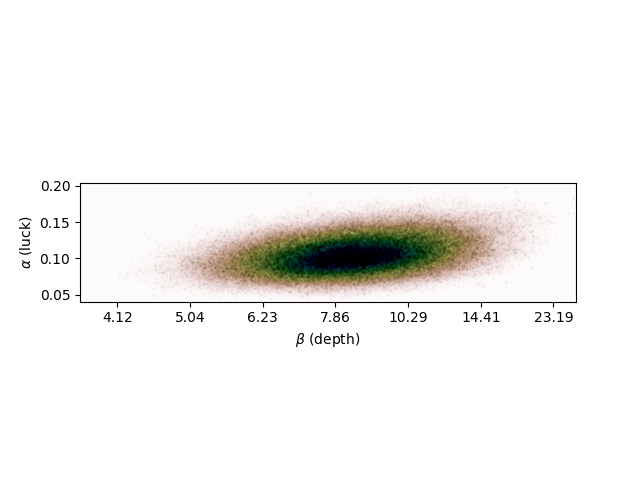
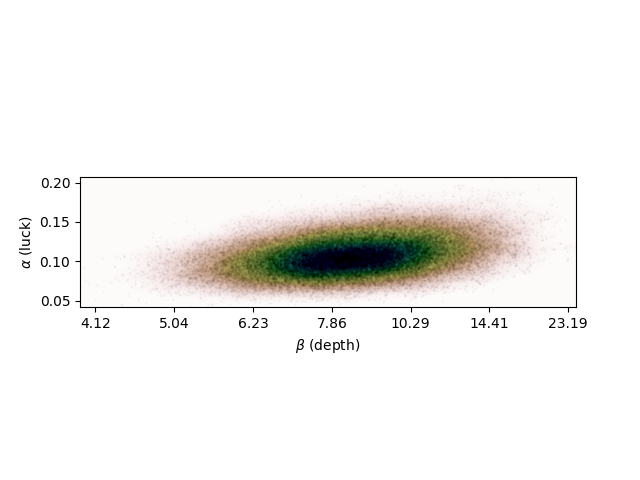
Documentation/example update

diff --git a/example.py b/example.py
@@ -1,14 +1,29 @@
 import ranking
 import matplotlib.pyplot as plt
 
-match_list = ranking.read_match_list_from_gml("data/gml_files/dogs.gml")
-# match_list = ranking.read_match_list_from_match_list("data/match_lists/college_football_D1_2023.txt")
-# match_list = ranking.read_match_list_from_match_list("data/match_lists/tennis.txt")
+# Example 1: dogs (n = 27 dogs that interact m = 1143 times)
+# Load data set
+match_list = ranking.read_match_list("data/gml_files/dogs.gml")
 
-scores = ranking.scores(match_list, model_name="depth_and_luck", force_mode="average")
-
+# Find scores (requires sampling, which can take a while)
+scores = ranking.scores(match_list)
 print(scores)
 
-# ranking.draw_depth_and_luck_posterior(match_list)
+# Get ranks (uses cached samples when possible)
+ranks = ranking.ranks(match_list)
+print(ranks)
 
-# plt.savefig('data/parameter_posteriors/tennis.png')
+# Find probability (and error) of an outcome betwen a pair
+player1 = 'MER'
+player2 = 'STE'
+probability, probability_error = ranking.probability(match_list,player1,player2)
+print(f"Probability {probability:.4f}+/-{probability_error:.4f} that {player1} beats {player2}")
+
+# Infer the depth and luck of the hierarchy 
+params = ranking.depth_and_luck(match_list)
+print(f"Depth: {params['depth']:.3f}, Luck: {params['luck']:.3f}")
+
+# Draw posterior distribution over depth and luck 
+# (compared to the point estimates this is the more informative picture)
+ranking.draw_depth_and_luck_posterior(match_list)
+plt.savefig('data/parameter_posteriors/dogs.png')

diff --git a/README.md b/README.md
@@ -1,42 +1,57 @@
 # pairwise-ranking
 <a href='https://pairwise-ranking.readthedocs.io/en/latest/?badge=latest'> <img src='https://readthedocs.org/projects/pairwise-ranking/badge/?version=latest' alt='Documentation status' /></a> <a href="https://badge.fury.io/py/pytrx"><img src="https://badge.fury.io/py/pairwise-ranking.svg" alt="PyPI status" height="18"></a> <br>
 
-### Models for ranking participants given of comparisons between them
+### Models for ranking participants given pairwise comparisons between them
 
 ### Maximilian Jerdee, Mark Newman
 
-Paired comparisons may arise from records of sports matches, social interactions, any other preferences between pairs of objects. From these data sets can model the "strengths" of each participant. <br>
+Paired comparisons may arise from records of sports matches, social interactions, any other preferences between pairs of objects. From these data sets we can model the "strengths" of each participant. <br>
 
-The models implemented are described in the paper
+The models implemented implemented in this package are described in this paper:
 
 M. Jerdee, M. E. J. Newman, Luck, skill, and depth of competition in games and social hierarchies, Preprint <a href="https://arxiv.org/abs/2312.04711">arxiv:2312.04711</a>
 (2023).
 
-These models may also be used to infer the "depth-of-competition" and "luck" present in the hierarchies considered.
+As shown in the paper, these models have strong predictive performance and may also be used to infer the "depth-of-competition" and "luck" present in the hierarchies considered.
 
 ## Installation
 pairwise-ranking may be installed through pip:
 
+```bash
+pip install pairwise-ranking
+```
+
+## Typical usage
+Once installed, the package can be imported as
 ```python
 import ranking
 ```
-
 Note that this is not `import pairwise-ranking`.
 
-## Typical usage
-Filenames can be in .gml network format, or as a .txt format of a list of matches or adjacency matrix
+Files can be in a .gml network format, or read as a .txt format of either a list of matches or of an adjacency matrix of head-to-head records. See the `/data` directory for examples.
 
-```
-# Read file as a list of matches
-match_list = ranking.read_match_list(filename)
-# Get ranking of participants
-ranks = ranking.ranks(match_list)
-# Get scores of participants in the model (higher is better!)
+After loading a match_list from a data set, the package may be used to rank participants, make predictions, and compute depth and luck. 
+```python
+# Load data set
+match_list = ranking.read_match_list("data/gml_files/dogs.gml")
+
+# Find scores (requires sampling, which can take a while)
 scores = ranking.scores(match_list)
-# Get predicted probability that "Winner" will beat "Loser" in a contest
-probability = ranking.get_probability(match_list,"Winner","Loser")
-# Luck and depth parameters
-depth, luck = ranking.get_depth_and_luck(match_list)
+print(scores)
+
+# Get ranks (uses cached samples when possible)
+ranks = ranking.ranks(match_list)
+print(ranks)
+
+# Find probability (and error) of an outcome betwen a pair
+player1 = 'MER'
+player2 = 'STE'
+probability, probability_error = ranking.probability(match_list,player1,player2)
+print(f"Probability {probability:.4f}+/-{probability_error:.4f} that {player1} beats {player2}")
+
+# Infer the depth and luck of the hierarchy
+params = ranking.depth_and_luck(match_list)
+print(f"Depth: {params['depth']:.3f}, Luck: {params['luck']:.3f}")
 ```
 
-See the file `example.py` for examples of more advanced usage options and our <a href="https://pytrx.readthedocs.io/en/latest/Installation.html">readthedocs page for further documentation. 
+See the file `example.py` for examples of more advanced usage options and our <a href="https://pytrx.readthedocs.io/en/latest/Installation.html">readthedocs page for further documentation and data set citations. 
